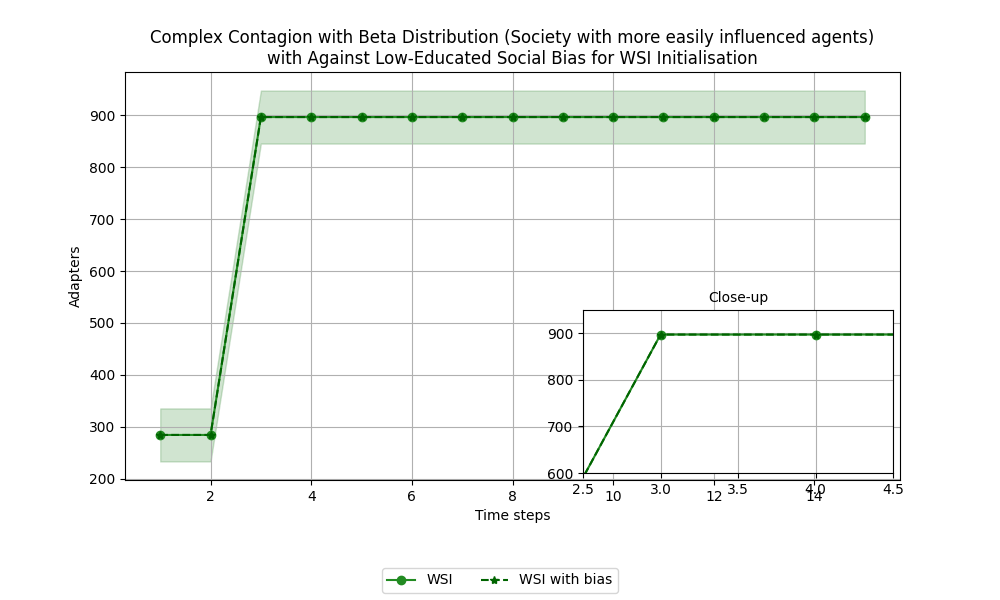
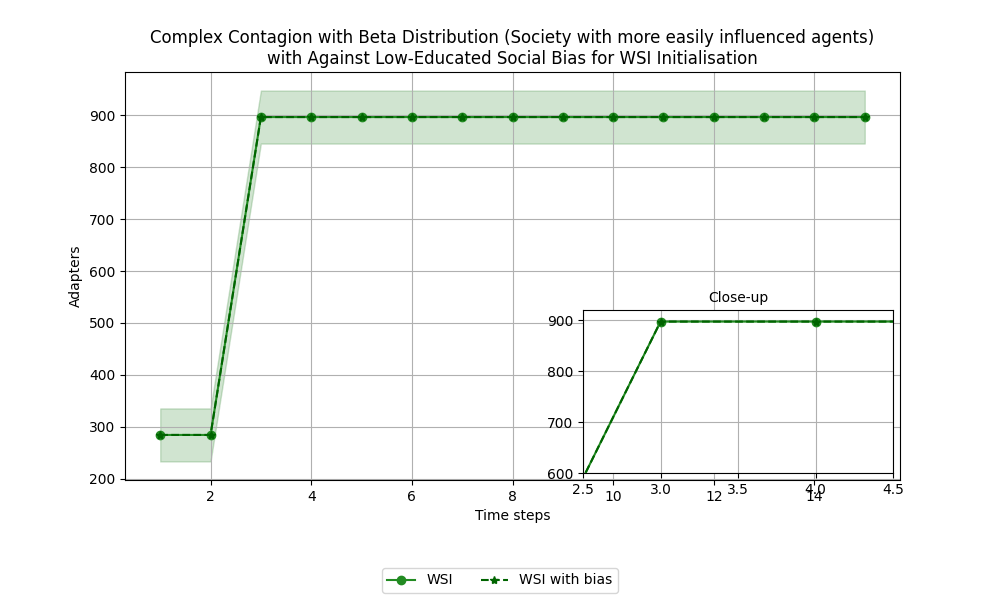
Complex contagion with open society and social bias for WSI

diff --git a/agent-based-basic/after_simluation_plots.py b/agent-based-basic/after_simluation_plots.py
@@ -74,12 +74,12 @@ file_names = [
 # simulations indicates the evolution of the number of adapters in the networks
 def plot_multiple_adapters_by_time(confidence=0.95, close_up=True):
     plots = {
-    labels[4][0]: {1: 25, 2: 25, 3: 694, 4: 694, 5: 694, 6: 694, 7: 694, 8: 694, 9: 694, 10: 694, 11: 694, 12: 694, 13: 694, 14: 694, 15: 694,},
-    labels[4][1]: {1: 100, 2: 100, 3: 849, 4: 849, 5: 849, 6: 849, 7: 849, 8: 849, 9: 849, 10: 849, 11: 849, 12: 849, 13: 849, 14: 849, 15: 849,},
-    labels[4][2]: {1: 200, 2: 200, 3: 895, 4: 895, 5: 895, 6: 895, 7: 895, 8: 895, 9: 895, 10: 895, 11: 895, 12: 895, 13: 895, 14: 895, 15: 895,},
-    labels[4][3]: {1: 25, 2: 25, 3: 665, 4: 665, 5: 665, 6: 665, 7: 665, 8: 665, 9: 665, 10: 665, 11: 665, 12: 665, 13: 665, 14: 665, 15: 665,},
-    labels[4][4]: {1: 100, 2: 100, 3: 839, 4: 840, 5: 840, 6: 840, 7: 840, 8: 840, 9: 840, 10: 840, 11: 840, 12: 840, 13: 840, 14: 840, 15: 840,},
-    labels[4][5]: {1: 200, 2: 200, 3: 885, 4: 886, 5: 886, 6: 886, 7: 886, 8: 886, 9: 886, 10: 886, 11: 886, 12: 886, 13: 886, 14: 886, 15: 886,},
+    labels[5][0]: {1: 284, 2: 284, 3: 897, 4: 897, 5: 897, 6: 897, 7: 897, 8: 897, 9: 897, 10: 897, 11: 897, 12: 897, 13: 897, 14: 897, 15: 897, },
+    labels[5][1]: {1: 284, 2: 284, 3: 893, 4: 893, 5: 893, 6: 893, 7: 893, 8: 893, 9: 893, 10: 893, 11: 893, 12: 893, 13: 893, 14: 893, 15: 893,},
+    # labels[4][2]: {1: 200, 2: 200, 3: 895, 4: 895, 5: 895, 6: 895, 7: 895, 8: 895, 9: 895, 10: 895, 11: 895, 12: 895, 13: 895, 14: 895, 15: 895,},
+    # labels[4][3]: {1: 25, 2: 25, 3: 665, 4: 665, 5: 665, 6: 665, 7: 665, 8: 665, 9: 665, 10: 665, 11: 665, 12: 665, 13: 665, 14: 665, 15: 665,},
+    # labels[4][4]: {1: 100, 2: 100, 3: 839, 4: 840, 5: 840, 6: 840, 7: 840, 8: 840, 9: 840, 10: 840, 11: 840, 12: 840, 13: 840, 14: 840, 15: 840,},
+    # labels[4][5]: {1: 200, 2: 200, 3: 885, 4: 886, 5: 886, 6: 886, 7: 886, 8: 886, 9: 886, 10: 886, 11: 886, 12: 886, 13: 886, 14: 886, 15: 886,},
     #labels[3][6]: {1: 284, 2: 284, 3: 897, 4: 897, 5: 897, 6: 897, 7: 897, 8: 897, 9: 897, 10: 897, 11: 897, 12: 897, 13: 897, 14: 897, 15: 897,}
     }
     slopes=[]
@@ -89,10 +89,10 @@ def plot_multiple_adapters_by_time(confidence=0.95, close_up=True):
     plt.ylabel('Adapters')
 
     plt.title("Complex Contagion with Beta Distribution (Society with more easily influenced agents)\n"
-              "with Against Low-Educated Social Bias for SII Initialisation")
+              "with Against Young Social Bias for WSI Initialisation")
     plt.grid(True)
     #colors = ['deeppink', 'orchid', 'mediumvioletred', 'deepskyblue', 'steelblue', 'blue', 'forestgreen', 'darkgreen',]
-    colors = ['deepskyblue', 'steelblue', 'blue','deepskyblue', 'steelblue', 'blue',]
+    colors = ['forestgreen', 'darkgreen',]
     linestyle = ['solid', 'dashed', 'dashdot', (5, (10, 3)) , (0, (3, 1, 1, 1, 1, 1)), (0, (3, 5, 1, 5, 1, 5)), "dashdot"]
     markers = ["o", "*", "P", "o", "*", "P"]    #["","","","","","","",""]
     i=0
@@ -123,7 +123,7 @@ def plot_multiple_adapters_by_time(confidence=0.95, close_up=True):
 
     plt.savefig(
         f"./work/case-scenarios/COMPLEX_CONTAGION/BETA-DISTRIBUTION/OPEN-SOCIETY/"
-        +"CC_open_society_SII_against_low_edu_bias.png")
+        +"CC_open_society_WSI_against_young_bias.png")
 
 
 # plots the heat map representing the vector labels.txt changing in a specific time step during a simulation
